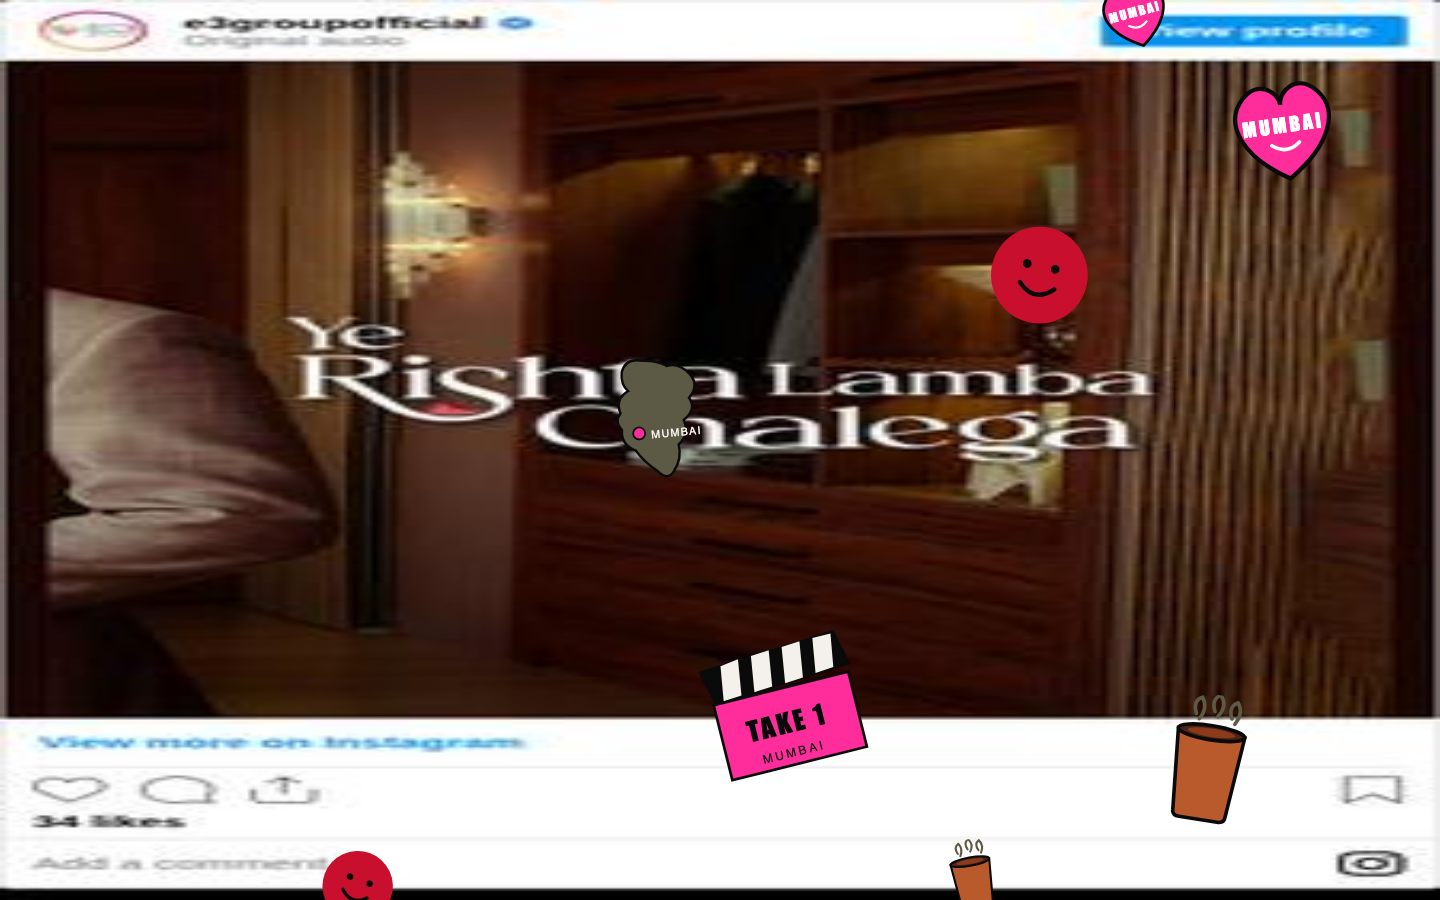
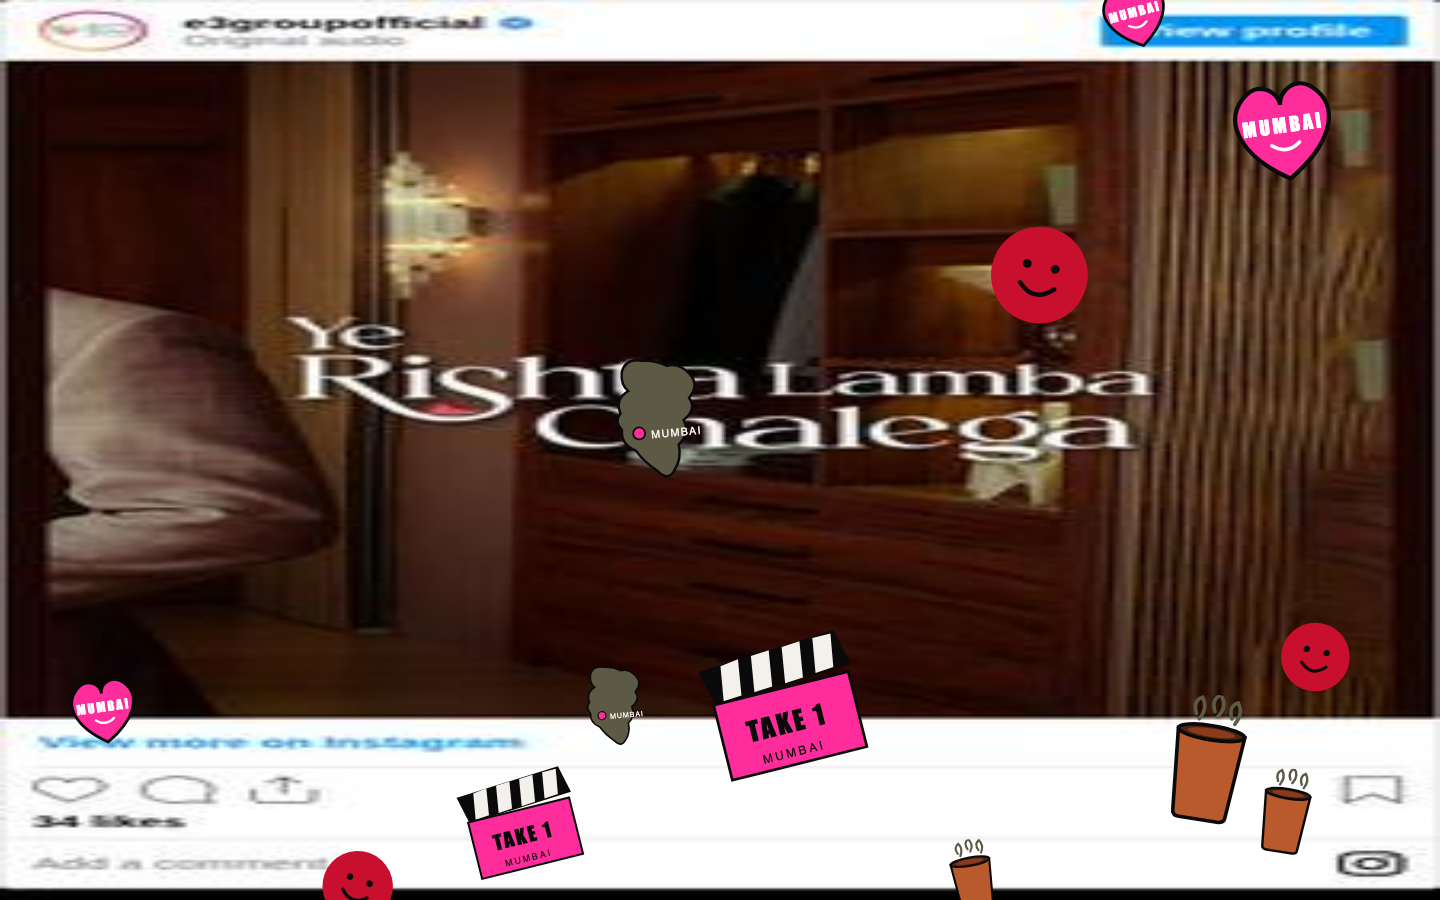
Audit fixes: mobile sticker overlap, hero credit legibility, gallery balance
Fixes from deep audit:
- StickersScatter splits into separate mobile and desktop scatter blocks
  so the MUMBAI heart no longer overlaps the "STICKERS FROM THE ROOM"
  heading on mobile. Mobile uses a 300px scatter zone below the heading.
- Hero credit stack and scroll cue now use light text with drop-shadow
  instead of ink (near-black), so they read on dark photo subjects.
- Gallery drops [column-fill:_balance] which left the right column empty
  at certain scroll positions on desktop; default fill flows naturally.
- README palette corrected: paper is #FFFFFF (white), cream #F4F1EC is a
  reserved accent — fixes mismatch with tailwind.config.ts.

diff --git a/app/components/StickersScatter.tsx b/app/components/StickersScatter.tsx
@@ -19,43 +19,62 @@ export default function StickersScatter() {
       <div
         ref={ref}
         className={
-          "relative mx-auto max-w-[1500px] px-6 md:pl-[180px] md:pr-12 py-16 md:py-20 scroll-fade " +
+          "relative mx-auto max-w-[1500px] px-6 md:pl-[180px] md:pr-12 py-16 md:py-20 scroll-fade min-h-[560px] md:min-h-[720px] " +
           (isVisible ? "is-visible" : "")
         }
-        style={{ minHeight: 720 }}
       >
         <p className="font-inter text-[10px] uppercase tracking-widest text-pink">
           SCENES, AT REST.
         </p>
         <h2
-          className="mt-3 font-display uppercase leading-[0.9] tracking-tight2 text-ink"
+          className="mt-3 font-display uppercase leading-[0.9] tracking-tight2 text-ink relative z-10"
           style={{ fontSize: "clamp(2rem, 5.5vw, 4.5rem)" }}
         >
           STICKERS
           <br />
           FROM THE ROOM.
         </h2>
-        <p className="mt-6 max-w-md font-garamond italic text-warmGrey text-lg md:text-xl">
+        <p className="mt-6 max-w-md font-garamond italic text-warmGrey text-lg md:text-xl relative z-10">
           A few things she carries around — between takes, between cities.
         </p>
 
-        {/* sticker scatter — positioned across the right & middle of the
-            section so they read as a cluster next to the heading */}
-        <StickerWiggle top={60} right={"6%"} rotate={-8} width={140}>
-          <MumbaiHeart className="block w-full h-auto" />
-        </StickerWiggle>
-        <StickerWiggle top={220} right={"24%"} rotate={12} width={110}>
-          <Bindi className="block w-full h-auto" />
-        </StickerWiggle>
-        <StickerWiggle bottom={120} right={"40%"} rotate={-14} width={160}>
-          <Clapperboard className="block w-full h-auto" />
-        </StickerWiggle>
-        <StickerWiggle bottom={70} right={"12%"} rotate={9} width={120}>
-          <ChaiCup className="block w-full h-auto" />
-        </StickerWiggle>
-        <StickerWiggle top={350} right={"50%"} rotate={-5} width={120}>
-          <IndiaMap className="block w-full h-auto" />
-        </StickerWiggle>
+        {/* Mobile sticker scatter — clustered at the bottom of the section */}
+        <div className="relative mt-8 h-[300px] md:hidden">
+          <StickerWiggle bottom={140} left={"4%"} rotate={-8} width={92}>
+            <MumbaiHeart className="block w-full h-auto" />
+          </StickerWiggle>
+          <StickerWiggle bottom={200} right={"6%"} rotate={12} width={78}>
+            <Bindi className="block w-full h-auto" />
+          </StickerWiggle>
+          <StickerWiggle bottom={20} left={"32%"} rotate={-14} width={120}>
+            <Clapperboard className="block w-full h-auto" />
+          </StickerWiggle>
+          <StickerWiggle bottom={40} right={"8%"} rotate={9} width={80}>
+            <ChaiCup className="block w-full h-auto" />
+          </StickerWiggle>
+          <StickerWiggle bottom={140} left={"40%"} rotate={-5} width={80}>
+            <IndiaMap className="block w-full h-auto" />
+          </StickerWiggle>
+        </div>
+
+        {/* Desktop sticker scatter — positioned across the right & middle */}
+        <div className="hidden md:block">
+          <StickerWiggle top={60} right={"6%"} rotate={-8} width={140}>
+            <MumbaiHeart className="block w-full h-auto" />
+          </StickerWiggle>
+          <StickerWiggle top={220} right={"24%"} rotate={12} width={110}>
+            <Bindi className="block w-full h-auto" />
+          </StickerWiggle>
+          <StickerWiggle bottom={120} right={"40%"} rotate={-14} width={160}>
+            <Clapperboard className="block w-full h-auto" />
+          </StickerWiggle>
+          <StickerWiggle bottom={70} right={"12%"} rotate={9} width={120}>
+            <ChaiCup className="block w-full h-auto" />
+          </StickerWiggle>
+          <StickerWiggle top={350} right={"50%"} rotate={-5} width={120}>
+            <IndiaMap className="block w-full h-auto" />
+          </StickerWiggle>
+        </div>
       </div>
     </section>
   );

diff --git a/app/components/Hero.tsx b/app/components/Hero.tsx
@@ -30,14 +30,14 @@ export default function Hero() {
         className="absolute left-4 right-4 z-10 md:left-[170px] md:right-auto md:top-6"
         style={{ top: 18 }}
       >
-        <p className="font-inter text-[10px] md:text-[11px] uppercase tracking-widest text-ink/85 leading-[1.55]">
+        <p className="font-inter text-[10px] md:text-[11px] uppercase tracking-widest text-paper/95 leading-[1.55] drop-shadow-[0_1px_2px_rgba(0,0,0,0.45)]">
           WRITTEN BY SIFFAAT GANDHI
           <br />
           PHOTOGRAPHY VARIOUS
           <br />
           MUMBAI · MMXXVI
         </p>
-        <p className="mt-5 font-inter text-[10px] md:text-[11px] uppercase tracking-widest text-ink/65">
+        <p className="mt-5 font-inter text-[10px] md:text-[11px] uppercase tracking-widest text-paper/75 drop-shadow-[0_1px_2px_rgba(0,0,0,0.45)]">
           SIFFAATGANDHI.COM / SPOTLIGHT
         </p>
       </div>
@@ -60,7 +60,7 @@ export default function Hero() {
       </h1>
 
       {/* Scroll cue */}
-      <div className="absolute inset-x-0 bottom-6 z-10 flex flex-col items-center text-ink/85">
+      <div className="absolute inset-x-0 bottom-6 z-10 flex flex-col items-center text-paper/90 drop-shadow-[0_1px_2px_rgba(0,0,0,0.45)]">
         <span className="font-inter text-[10px] uppercase tracking-widest mb-2">
           Scroll
         </span>

diff --git a/app/components/Gallery.tsx b/app/components/Gallery.tsx
@@ -44,7 +44,7 @@ export default function Gallery() {
           </p>
         </div>
 
-        <div className="mt-12 columns-1 gap-3 md:columns-2 md:gap-5 [column-fill:_balance]">
+        <div className="mt-12 columns-1 gap-3 md:columns-2 md:gap-5">
           {GALLERY.map((g) => (
             <figure key={g.src} className="mb-3 break-inside-avoid md:mb-5">
               <div className="relative w-full">

diff --git a/README.md b/README.md
@@ -157,13 +157,14 @@ No CMS. No analytics. No tracker. No JS framework for animations. The whole page
 ## PALETTE.
 
 ```
-#F4F1EC   Paper      cream ground, matches the PDF portfolio
+#FFFFFF   Paper      pure white ground
+#F4F1EC   Cream      reserved accent (LiteYouTube play frame)
 #0A0A0A   Ink        body type, base black
 #FF2D9B   Pink       the spotlight colour
 #FFD9EC   Pink Soft  hover wash on cards
 #5C5A45   Olive      full-bleed editorial blocks
-#8A857E   Warm Grey  captions, supporting type
-#9BE5DD   Cyan       SG block badge accent
+#666666   Warm Grey  captions, supporting type
+#9BE8E8   Cyan       SG block badge accent
 ```
 
 ---
